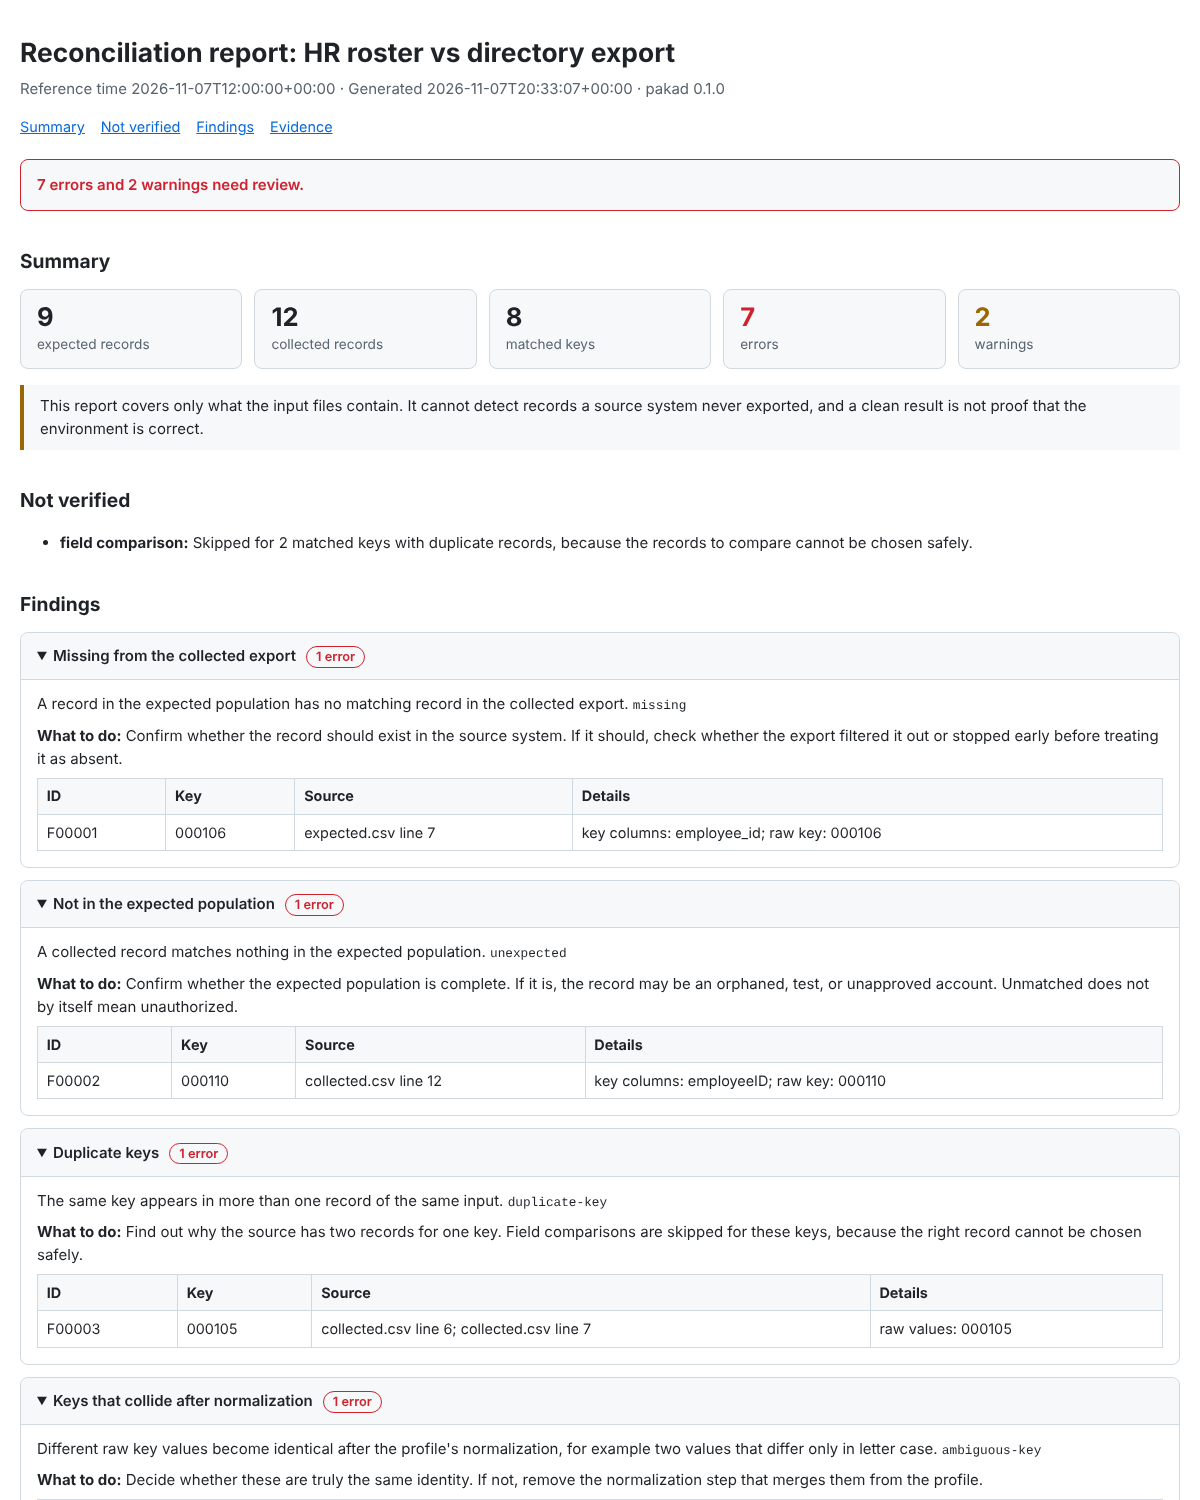
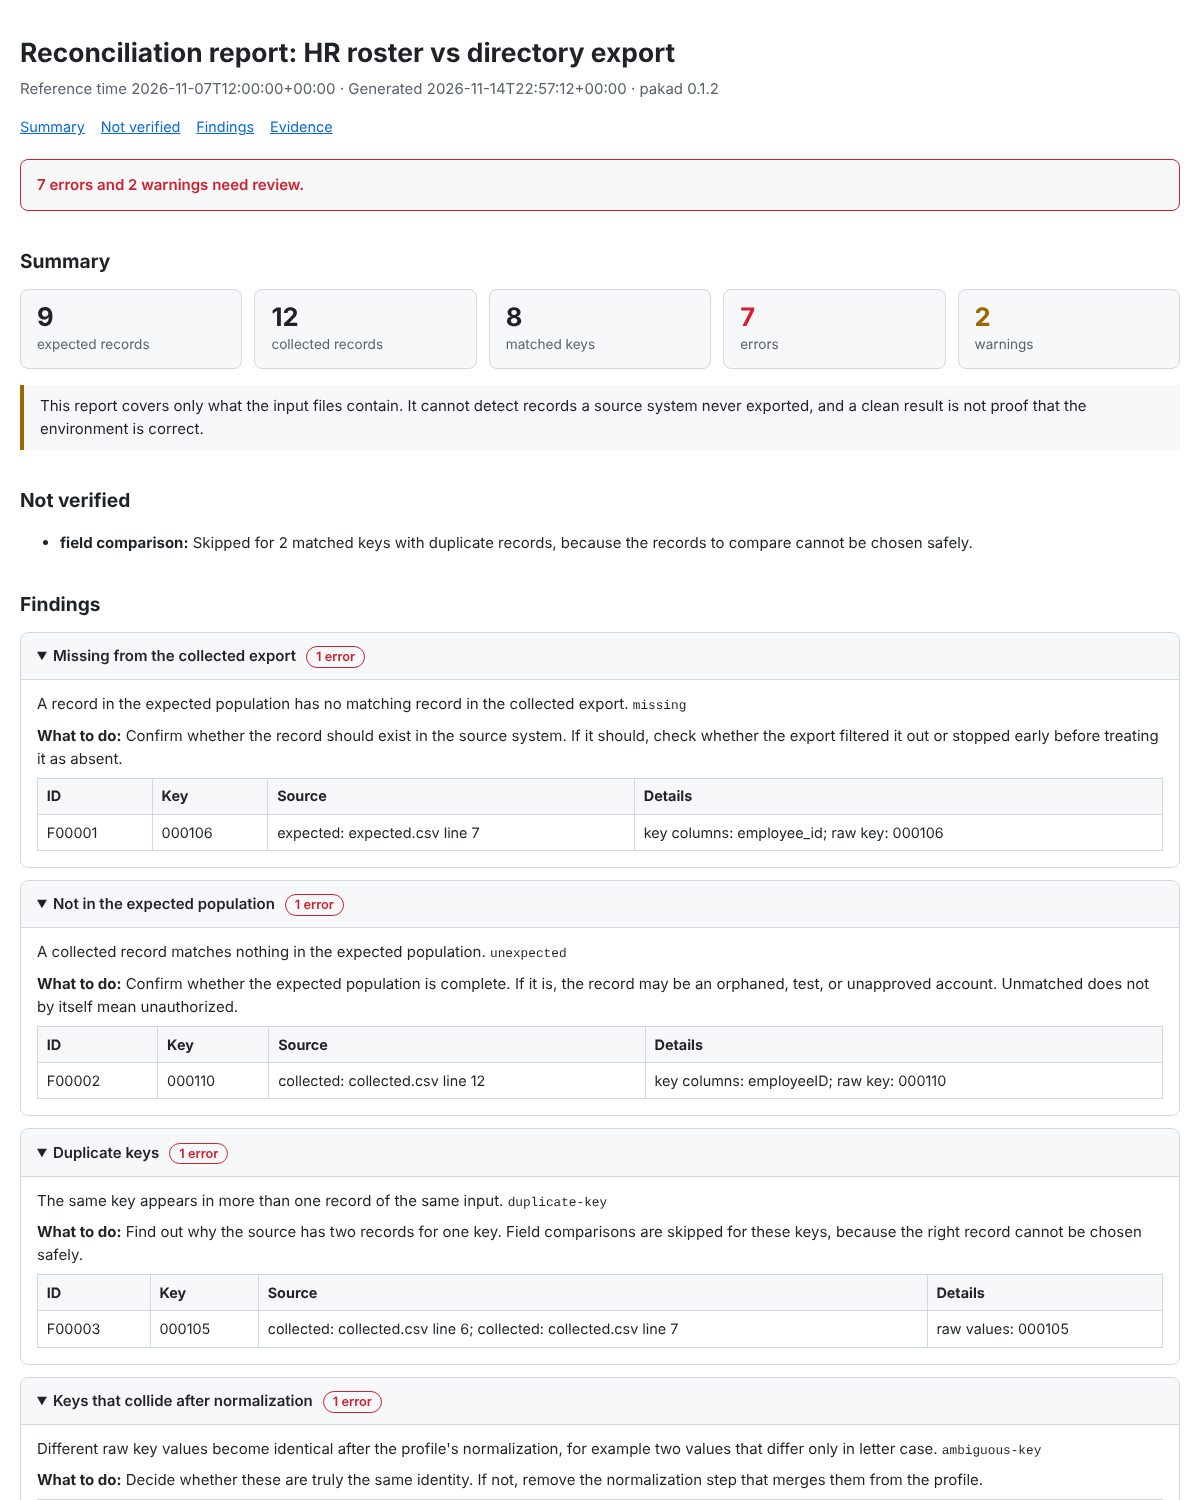
chore: release pakad 0.1.2
Bump the version to 0.1.2 in pyproject.toml and uv.lock, date the
changelog section 2026-11-14, regenerate the committed sample reports
with the repository's own command and the screenshot from the new HTML
report (both still said pakad 0.1.0 or 0.1.1), and update the version in
the documented report example. Replace the "compliance" package keyword
with "audit-evidence", so the metadata makes no compliance suggestion.
Fixes PAKAD-UX-03 and the pakad part of OPSEC-08.

Claude-Session: https://claude.ai/code/session_0177FmnufAqVmqFySmsvvHph

diff --git a/examples/roster-vs-directory/sample-report/pakad-report.html b/examples/roster-vs-directory/sample-report/pakad-report.html
@@ -5,7 +5,7 @@
 <meta http-equiv="Content-Security-Policy" content="default-src 'none'; style-src 'unsafe-inline'; form-action 'none'; base-uri 'none'">
 <meta name="referrer" content="no-referrer">
 <meta name="viewport" content="width=device-width, initial-scale=1">
-<meta name="generator" content="pakad 0.1.1">
+<meta name="generator" content="pakad 0.1.2">
 <title>Reconciliation report: HR roster vs directory export</title>
 <style>
 :root{--fg:#1f2328;--muted:#59636e;--bg:#fff;--panel:#f6f8fa;--line:#d1d9e0;
@@ -52,8 +52,8 @@ summary{background:none}a{color:inherit;text-decoration:none}}
 <main>
 <header>
 <h1>Reconciliation report: HR roster vs directory export</h1>
-<p>Reference time 2026-11-07T12:00:00+00:00 · Generated 2026-11-14T22:54:12+00:00
-· pakad 0.1.1</p>
+<p>Reference time 2026-11-07T12:00:00+00:00 · Generated 2026-11-14T22:57:12+00:00
+· pakad 0.1.2</p>
 </header>
 <nav aria-label="Sections"><a href="#summary">Summary</a><a href="#not-verified">Not verified</a><a href="#findings">Findings</a><a href="#evidence">Evidence</a></nav>
 <p class="status fail" role="status">7 errors and 2 warnings need review.</p>
@@ -71,7 +71,7 @@ summary{background:none}a{color:inherit;text-decoration:none}}
 <h3>Verify the inputs</h3>
 <p>To confirm this report describes the files you hold, compute each file&#x27;s SHA-256 hash and compare it with the value above.</p>
 <ul><li>Linux: <code>sha256sum FILE</code></li><li>macOS: <code>shasum -a 256 FILE</code></li><li>Windows PowerShell: <code>Get-FileHash -Algorithm SHA256 FILE</code></li></ul></section>
-<footer>Run ID <code>a156f8a609864ae4985bd34198b4746c</code>, shared by every file from this run.
+<footer>Run ID <code>c70533e3eea44f9697407f1ae8cc277e</code>, shared by every file from this run.
 Report schema version 1.0.
 Produced by pakad, an open source tool from Faithful Oversight, LLC.</footer>
 </main>

diff --git a/CHANGELOG.md b/CHANGELOG.md
@@ -6,20 +6,23 @@ The format follows [Keep a Changelog](https://keepachangelog.com/en/1.1.0/), and
 
 ## [Unreleased]
 
+## [0.1.2] - 2026-11-14
+
 ### Fixed
 
-- The report now states a configured `max_age_hours` exactly (for example `1.23456789`, not `1.23457`), in both the rules applied and the stale-record details.
-- A profile's `equivalents` no longer turns identical values into a `field-mismatch`. A collected value that equals the expected value always matches; an equivalent only adds another accepted form.
-- A key repeated thousands of times no longer puts every source reference into one CSV cell, which went past a spreadsheet's 32,767-character limit. The CSV, HTML, and Markdown reports list the first 20 references and say how many more there are; the JSON report keeps all of them.
-- The note about findings left out of the HTML and Markdown reports now reads correctly for one finding ("1 more finding of this kind is in ...").
+- A profile with no `[[compare]]` fields now lists "field comparison" under Not verified, so a presence-only run is no longer reported as a clean pass.
+- A JSON export that says it is one page of a larger result (a non-empty `@odata.nextLink`, or an `@odata.count` or `count` that differs from the number of records) is now reported as a `possible-truncation` warning instead of being accepted as complete.
+- When the summary cannot be printed (a closed pipe such as `pakad ... | head`, or output that cannot encode a character in a path), the run now keeps its real exit code instead of ending with exit 4. The reports were already written.
+- Error messages now name the whole path you gave, not only the file name. Reports still record only the file name.
 - A large `--max-bytes` value no longer makes a tiny file fail with exit 4 (`MemoryError` or `OverflowError`). Files are now read in blocks.
 - An output directory that exists but cannot be searched (for example mode 0600) is now an input error (exit 3) with a clear message, not an internal error (exit 4).
 - A deeply nested profile is now a profile error (exit 3, "profile is nested too deeply") instead of an internal error (exit 4).
 - An empty JSON export (`[]` or `{"value": []}`) is now reported as an empty input, like a header-only CSV, instead of failing with "is missing 1 column".
-- When the summary cannot be printed (a closed pipe such as `pakad ... | head`, or output that cannot encode a character in a path), the run now keeps its real exit code instead of ending with exit 4. The reports were already written.
-- Error messages now name the whole path you gave, not only the file name. Reports still record only the file name.
-- A JSON export that says it is one page of a larger result (a non-empty `@odata.nextLink`, or an `@odata.count` or `count` that differs from the number of records) is now reported as a `possible-truncation` warning instead of being accepted as complete.
-- A profile with no `[[compare]]` fields now lists "field comparison" under Not verified, so a presence-only run is no longer reported as a clean pass.
+- A key repeated thousands of times no longer puts every source reference into one CSV cell, which went past a spreadsheet's 32,767-character limit. The CSV, HTML, and Markdown reports list the first 20 references and say how many more there are; the JSON report keeps all of them.
+- A profile's `equivalents` no longer turns identical values into a `field-mismatch`. A collected value that equals the expected value always matches; an equivalent only adds another accepted form.
+- The report now states a configured `max_age_hours` exactly (for example `1.23456789`, not `1.23457`), in both the rules applied and the stale-record details.
+- The note about findings left out of the HTML and Markdown reports now reads correctly for one finding ("1 more finding of this kind is in ...").
+- A plain negative number such as `-1` is no longer given a leading apostrophe in the CSV report, so a tool reading the file gets the number. Anything else that starts with a minus sign is still neutralized.
 - The source archive's own tests now run in the build check: it unpacks the archive outside the checkout and runs the whole suite there, instead of only collecting the tests.
 - Editing a pull request title now reruns the title check, so a corrected title clears the required check.
 - The dependency audit writes its export to a private temporary directory, so a planted link or a second run at the same time cannot interfere.
@@ -32,6 +35,13 @@ The format follows [Keep a Changelog](https://keepachangelog.com/en/1.1.0/), and
 
 - The profile documentation now says that normalization steps run in the order listed and that `nfkc` should come first, because a later `casefold` or `strip` cleans up what NFKC creates. The step table and the example profile list `nfkc` first.
 - The limitations page now states measured memory use: about 650 to 1,100 bytes per record, or 14 to 80 times the file size depending on row width, instead of "several times the file size". It also says that `--max-bytes` limits bytes, not records.
+- A presence-only profile (no `[[compare]]` fields) now gets the headline "No findings in the supplied inputs, but 1 check did not run" where it used to get a plain pass. The example profile compares fields and is unchanged.
+- The README now leads with an install route that works before the first PyPI release (`pipx install git+https://github.com/faithful-oversight/faithful-pakad`), a status line, a short comparison with other approaches, a link to the documentation folder, and a real excerpt of the example report. The quickstart shows the current version.
+- The package keywords no longer include "compliance", and the README and NOTICE say that pakad is not affiliated with or endorsed by Microsoft.
+
+### Security
+
+- Characters that look like a space but are not the ASCII space (no-break space, the en and em spaces, the ideographic space, and the blank braille pattern) now print as visible escapes in every report format and in the terminal, so two keys that differ only by one of them no longer look identical, and such a character cannot sit in front of a formula in the CSV report.
 
 ## [0.1.1] - 2026-11-11
 

diff --git a/docs/output.md b/docs/output.md
@@ -49,7 +49,7 @@ Keys in findings are shown after normalization, which is the form pakad matched 
 ```json
 {
   "schema_version": "1.0",
-  "tool": {"name": "pakad", "version": "0.1.1"},
+  "tool": {"name": "pakad", "version": "0.1.2"},
   "summary": {"expected_records": 9, "collected_records": 12, "matched_keys": 8,
               "errors": 7, "warnings": 2, "findings_by_kind": {"missing": 1, "...": 0}},
   "findings": [
@@ -84,7 +84,7 @@ Every run also writes `pakad-manifest.json`, after every other file. It records 
 {
   "$schema": "https://faithful-oversight.github.io/faithful-pakad/schema/manifest-v1.schema.json",
   "schema_version": "1.0",
-  "tool": {"name": "pakad", "version": "0.1.1"},
+  "tool": {"name": "pakad", "version": "0.1.2"},
   "run_id": "4f3c1e0a9b7d4c2e8f6a5b3c1d0e9f8a",
   "generated_at": "2026-11-07T12:00:00+00:00",
   "files": [
@@ -119,7 +119,7 @@ People-facing reports join composite keys with ` | `. A key value that itself co
 
 ## Large reports
 
-The HTML and Markdown reports show at most 500 findings of each kind, and say how many more there are. The JSON and CSV outputs always hold every finding. The CSV, HTML, and Markdown reports list at most 20 source references for one finding, followed by "and N more", so one key repeated thousands of times cannot fill a spreadsheet cell past its limit of 32,767 characters. The JSON report always lists every reference.
+The HTML and Markdown reports show at most 500 findings of each kind, and say how many more there are. The JSON and CSV outputs always hold every finding. The CSV, HTML, and Markdown reports list at most 20 source references for one finding, followed by a count of the rest, so one key repeated thousands of times cannot fill a spreadsheet cell past its limit of 32,767 characters. The JSON report always lists every reference.
 
 ## CSV findings
 

diff --git a/examples/roster-vs-directory/sample-report/pakad-report.md b/examples/roster-vs-directory/sample-report/pakad-report.md
@@ -2,7 +2,7 @@
 
 **7 errors and 2 warnings need review.**
 
-Reference time 2026-11-07T12:00:00+00:00. Generated 2026-11-14T22:54:12+00:00 by pakad 0.1.1. Run ID `a156f8a609864ae4985bd34198b4746c`.
+Reference time 2026-11-07T12:00:00+00:00. Generated 2026-11-14T22:57:12+00:00 by pakad 0.1.2. Run ID `c70533e3eea44f9697407f1ae8cc277e`.
 
 > This report covers only what the input files contain. It cannot detect records a source system never exported, and a clean result is not proof that the environment is correct.
 
